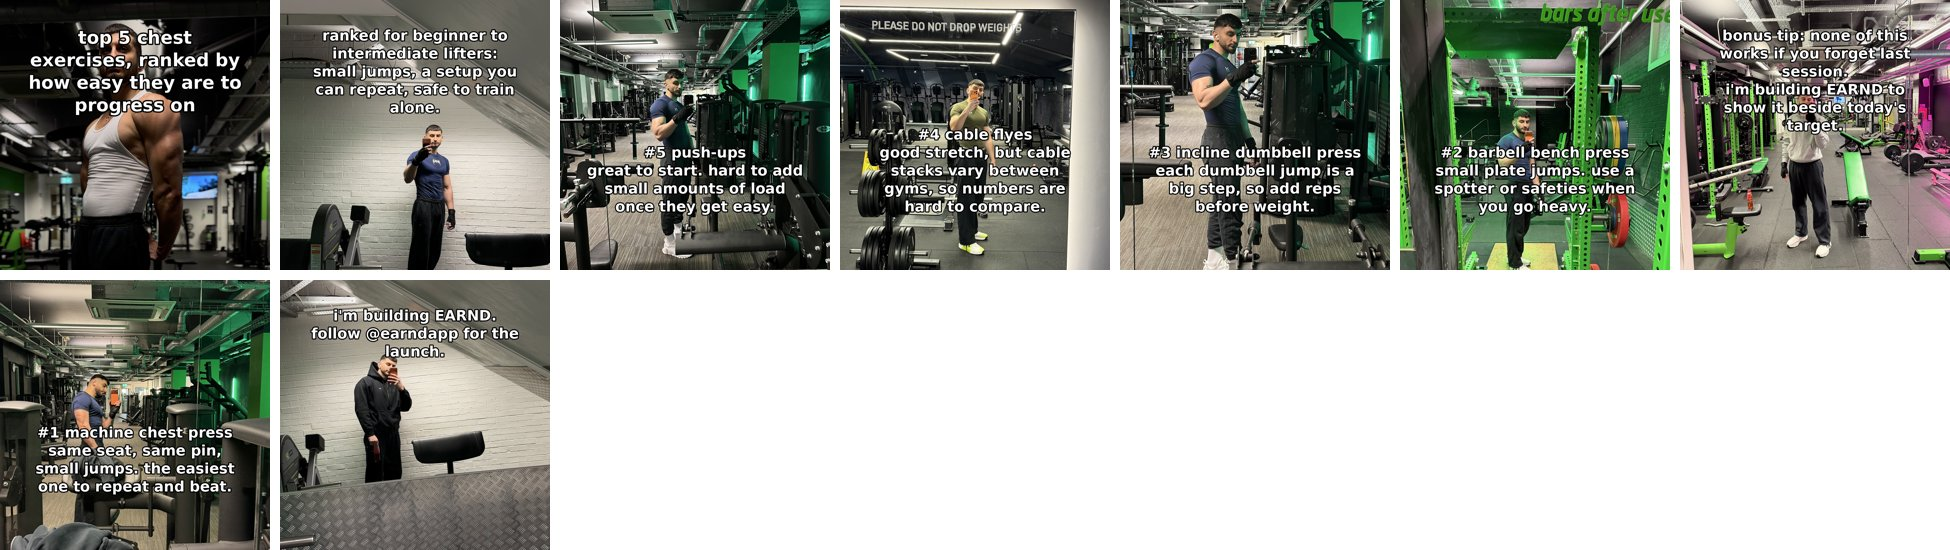
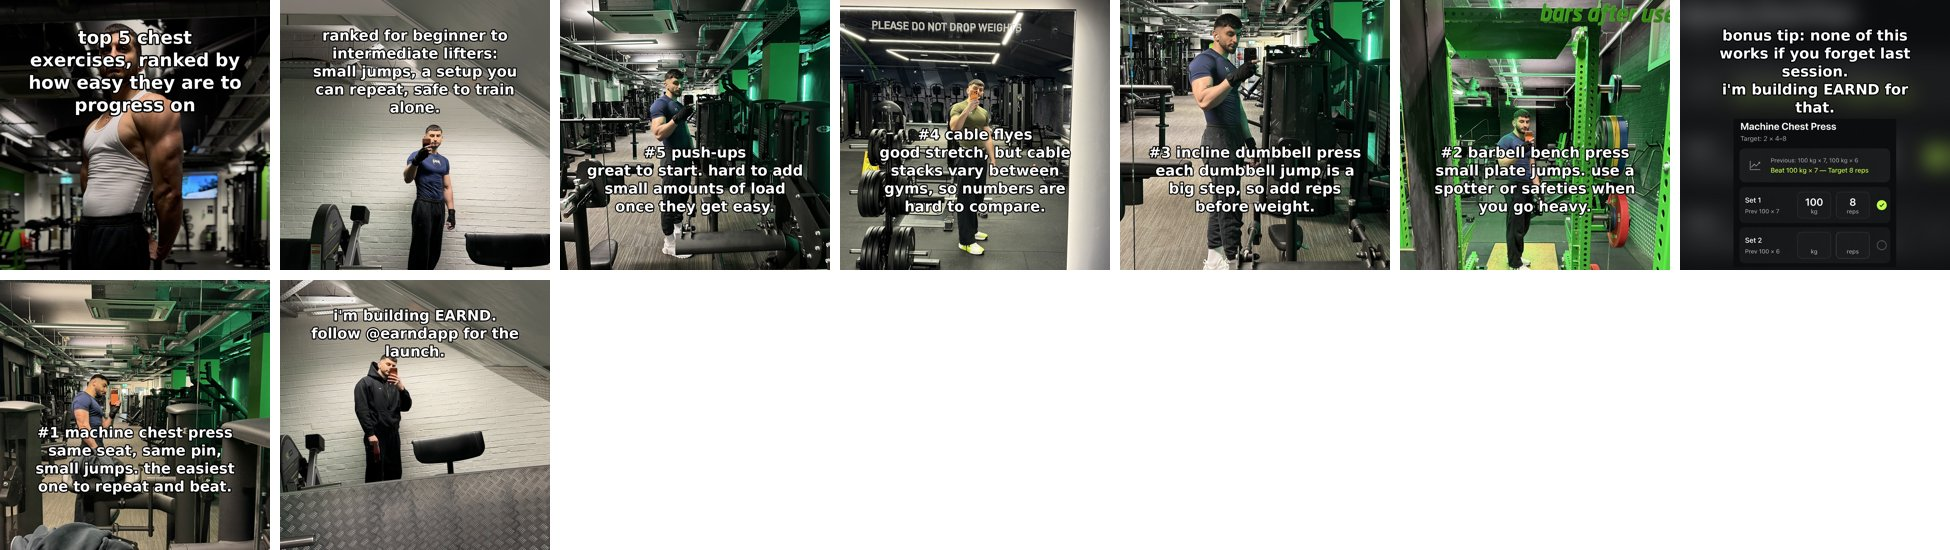
Show the real EARND screenshot on the founder bonus-tip slide
Claude-Session: https://claude.ai/code/session_01L7zBRZeVuQtQ5RJ5YW83Jg

Changed region(s): [[0.8615, 0.0, 1.0, 0.4945]]

diff --git a/04-sets/2026-10-25-ezyxbt-top5-back/slides.md b/04-sets/2026-10-25-ezyxbt-top5-back/slides.md
@@ -16,8 +16,8 @@
    _REAL FOUNDER PHOTO: crop and resize only, face and physique unchanged: b7-12.jpg_
 6. (middle, 16 words) #2 chest-supported row / the pad stops the swing, so each session compares cleanly to the last.  
    _REAL FOUNDER PHOTO: crop and resize only, face and physique unchanged: b8-10.jpg_
-7. (middle, 20 words) bonus tip: if you can't compare sessions, you can't progress. / i'm building EARND to show last session beside today's target.  
-   _REAL FOUNDER PHOTO: crop and resize only, face and physique unchanged: b4-15.jpg_
+7. (middle, 15 words) bonus tip: if you can't compare sessions, you can't progress. / i'm building EARND for that.  
+   _REAL SCREENSHOT: exercise-target.png (Machine Chest Press): exercise-target.png_
 8. (middle, 16 words) #1 lat pulldown / pin stack, small jumps, the same setup every time. the easiest to beat.  
    _REAL FOUNDER PHOTO: crop and resize only, face and physique unchanged: b4-10.jpg_
 9. (cta, 8 words) i'm building EARND. / follow @earndapp for the launch.  

diff --git a/04-sets/2026-10-25-ezyxbt-top5-chest/slides.md b/04-sets/2026-10-25-ezyxbt-top5-chest/slides.md
@@ -16,8 +16,8 @@
    _REAL FOUNDER PHOTO: crop and resize only, face and physique unchanged: b6-13.jpg_
 6. (middle, 16 words) #2 barbell bench press / small plate jumps. use a spotter or safeties when you go heavy.  
    _REAL FOUNDER PHOTO: crop and resize only, face and physique unchanged: b6-03.jpg_
-7. (middle, 20 words) bonus tip: none of this works if you forget last session. / i'm building EARND to show it beside today's target.  
-   _REAL FOUNDER PHOTO: crop and resize only, face and physique unchanged: b6-08.jpg_
+7. (middle, 16 words) bonus tip: none of this works if you forget last session. / i'm building EARND for that.  
+   _REAL SCREENSHOT: exercise-target.png (Machine Chest Press): exercise-target.png_
 8. (middle, 17 words) #1 machine chest press / same seat, same pin, small jumps. the easiest one to repeat and beat.  
    _REAL FOUNDER PHOTO: crop and resize only, face and physique unchanged: b5-01.jpg_
 9. (cta, 8 words) i'm building EARND. / follow @earndapp for the launch.  

diff --git a/02-research/formats/top5-countdown.md b/02-research/formats/top5-countdown.md
@@ -22,7 +22,7 @@ Account: @ezyxbt (founder). Founder photos only, crop and resize only.
 1. **Hook** on the strongest portrait: "top 5 [muscle] exercises, ranked by [criterion]".
 2. **Setup** (replaces the reference's "before" photo, which implied a transformation): the criteria and who the ranking is for.
 3. **#5**, 4. **#4**, 5. **#3**, 6. **#2**: exercise name, then one line of reasoning against the stated criteria.
-7. **Bonus tip = EARND**, second-to-last, where the references place their app. Founder relationship in the same slide ("i'm building EARND…"). Relaxed photo, not a physique shot.
+7. **Bonus tip = EARND**, second-to-last, where the references place their app (they show the app on a phone). Real screenshot from `01-app/assets/`, crop only. Founder relationship in the same slide ("i'm building EARND…").
 8. **#1**: the pick and why, against the criteria.
 9. **CTA**: "i'm building EARND. follow @earndapp for the launch."
 
